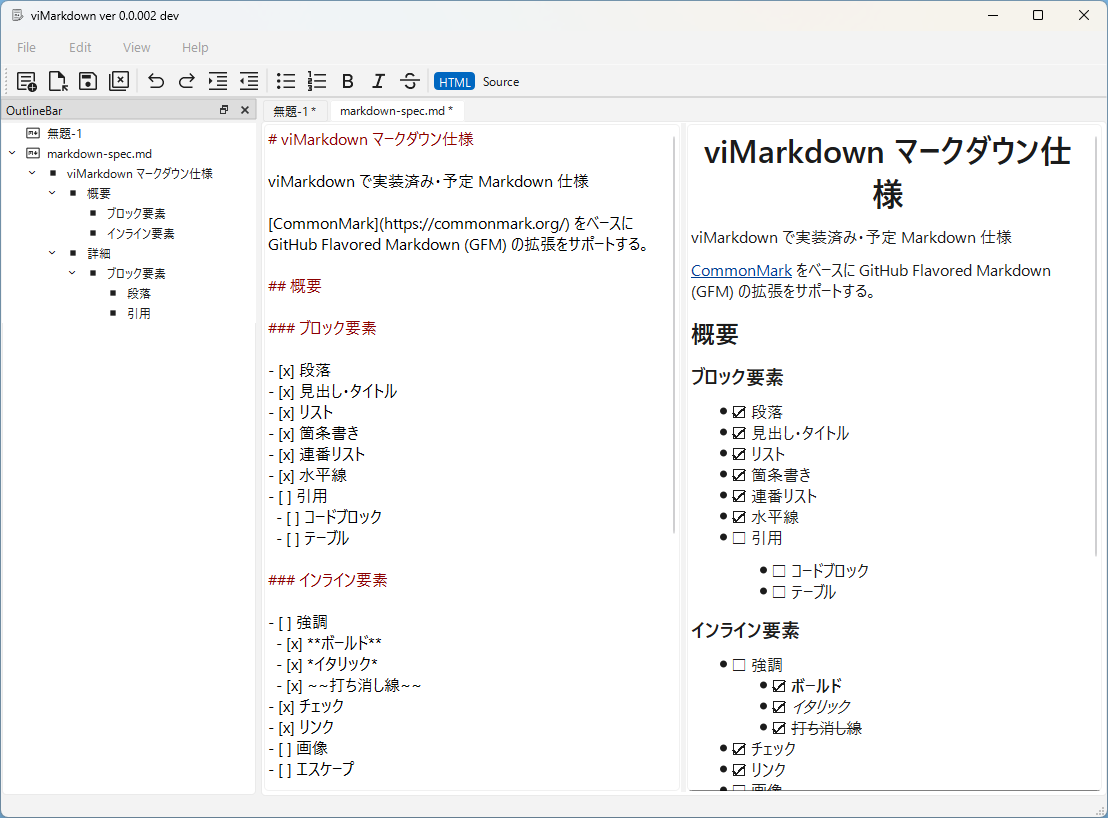
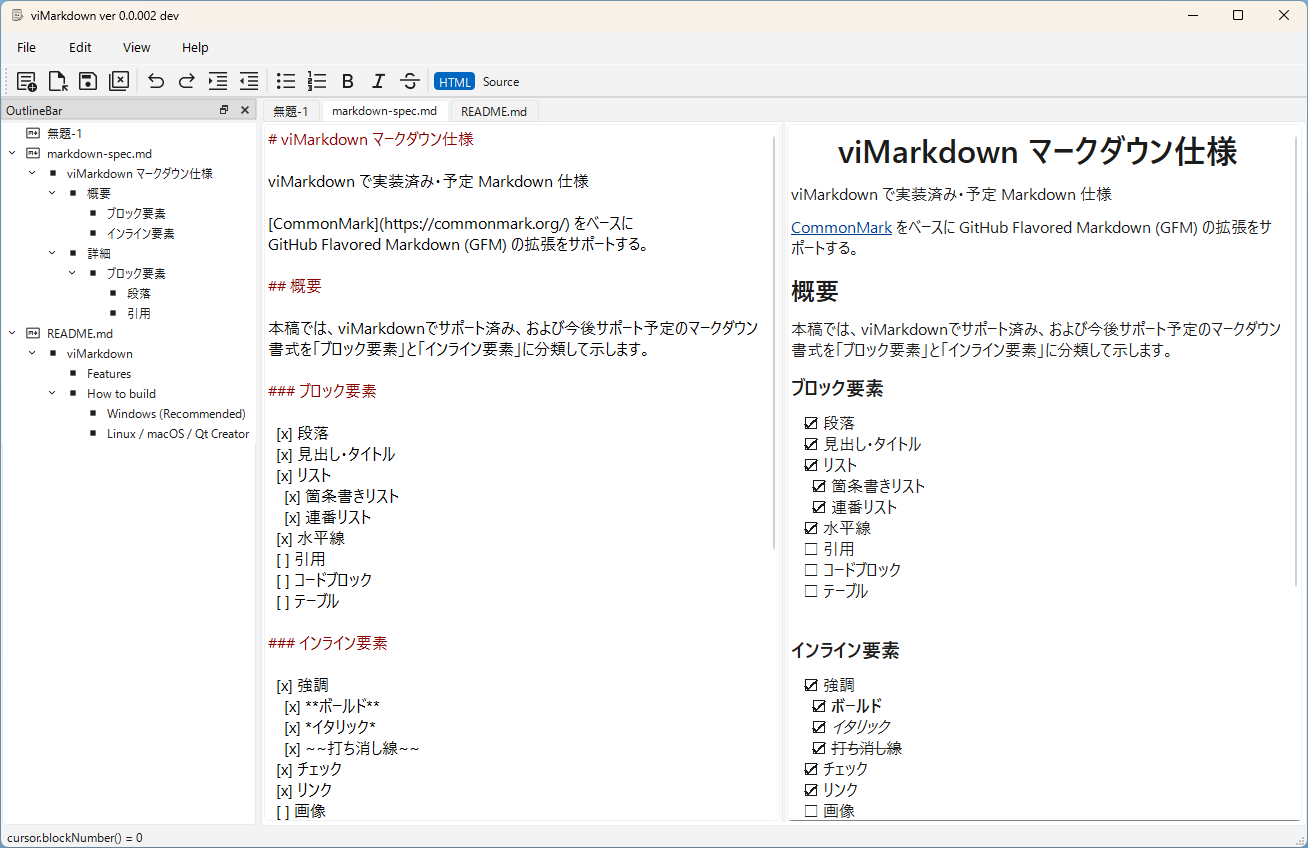
0126 ◎ C 12/20 12/21 0.0002│ToDo│オート改行：チェックボックス（[ ]）対応

diff --git a/viMarkdown/viMarkdown/MarkdownToHtmlConvertor.cpp b/viMarkdown/viMarkdown/MarkdownToHtmlConvertor.cpp
@@ -10,13 +10,16 @@ const QString& MarkdownToHtmlConvertor::convert() {
 	m_htmlText += "<body>\n";
 	m_headingList.clear();
 	m_headingLineNum.clear();
+	m_blockNumTohtmlLineNum.clear();
 	m_isParagraphOpen = true;
 	m_curUlLevel = 0;
 	m_curOlLevel = 0;
 	auto lst = m_markdownText.split('\n');
 	m_blockType.resize(lst.size());
+	int htmlLn = 0;
 	for(int ln = 0; ln != lst.size(); ++ln) {
 		auto lnStr = lst[ln];
+		m_blockNumTohtmlLineNum.push_back(htmlLn);
 		m_nSpace = 0;
 		m_blockType[ln] = ' ';
 	  	while( m_nSpace < lnStr.size() && lnStr[m_nSpace] == ' ' ) ++m_nSpace;
@@ -101,12 +104,24 @@ QString MarkdownToHtmlConvertor::parceInline(const QString& lnStr) {
     static QRegularExpression re_check(R"((?<![\\])(\[ \]))");  // 直前が \ でない [ ] とマッチ
 	while ((match = re_check.match(result)).hasMatch()) {
         int s = match.capturedStart();  // 最初のマッチ位置 
-		result = result.left(s) + " □ " + result.mid(s+3);
+        QString left = result.left(s);
+        QString nbsp;
+        if( left.isEmpty() && m_nSpace != 0 ) {
+	        for(int i = 0; i < m_nSpace; ++i)
+	        	nbsp += "&nbsp;";
+        }
+		result = left + nbsp + " □ " + result.mid(s+3);
 	}
     static QRegularExpression re_checked(R"((?<![\\])(\[[xX]\]))");  // 直前が \ でない [x] [X]とマッチ
 	while ((match = re_checked.match(result)).hasMatch()) {
         int s = match.capturedStart();  // 最初のマッチ位置 
-		result = result.left(s) + " ☑ " + result.mid(s+3);
+        QString left = result.left(s);
+        QString nbsp;
+        if( left.isEmpty() && m_nSpace != 0 ) {
+	        for(int i = 0; i < m_nSpace; ++i)
+	        	nbsp += "&nbsp;";
+        }
+		result = left + nbsp + " ☑ " + result.mid(s+3);
 	}
 	static QRegularExpression re_link(R"((?<!!)\[([^\]]*)\]\(([^)]*)\))");		//	[title](URL)
 	while ((match = re_link.match(result)).hasMatch()) {

diff --git a/viMarkdown/viMarkdown/MainWindow.cpp b/viMarkdown/viMarkdown/MainWindow.cpp
@@ -96,6 +96,7 @@ DocWidget *MainWindow::newTabWidget(const QString& title, const QString& fullPat
 	docWidget->setStyleSheet("font-size: 12pt; line-height: 200%;");
 	QSplitter *splitter = new QSplitter(Qt::Horizontal, docWidget);
 	MarkdownEditor *mdEditor = docWidget->m_mdEditor = new MarkdownEditor(splitter);
+	connect(mdEditor, &MarkdownEditor::cursorPositionChanged, this, &MainWindow::onMdEditCurPosChanged);
 	//QTextEdit *mdEditor = new QTextEdit(splitter);
 	mdEditor->setPlaceholderText("ここにMarkdownを入力\n# タイトル\n## 大見出し\n- リスト\n1. 連番\n本文...");
 	QTextEdit *previewer = docWidget->m_previewer = new QTextEdit(splitter);
@@ -664,6 +665,14 @@ void MainWindow::onMDTextChanged() {
 		ui->tabWidget->setTabText(ui->tabWidget->currentIndex(), docWidget->m_title + " *");
 	}
 	m_ignore_changed = false;
+}
+void MainWindow::onMdEditCurPosChanged() {
+	MarkdownEditor *mdEditor = (MarkdownEditor*)sender();
+	QTextCursor cursor = mdEditor->textCursor();
+	int bnum = cursor.blockNumber();
+	QString mess = QString("cursor.blockNumber() = %1").arg(bnum);
+	//mess += QString(", preview.blockNumber() = %1").arg(cursor.blockNumber());
+	statusBar()->showMessage(mess);
 }
 void MainWindow::onAction_About() {
 	qDebug() << "MainWindow::onAction_About()";

diff --git a/viMarkdown/viMarkdown/MarkdownToHtmlConvertor.h b/viMarkdown/viMarkdown/MarkdownToHtmlConvertor.h
@@ -41,6 +41,7 @@ private:
 	int			m_curUlLevel = 0;
 	int			m_curOlLevel = 0;
 	int			m_nSpace = 0;
+	std::vector<int>	m_blockNumTohtmlLineNum;		//	マークダウン論理行番号→HTML論理行番号対応テーブル
 	std::vector<int>	m_headingLineNum;	//	各見出し行 行番号（0 org.）
 	std::vector<char>	m_blockType;		//	' ': body text, '#': headings
 };

diff --git a/viMarkdown/viMarkdown/MainWindow.h b/viMarkdown/viMarkdown/MainWindow.h
@@ -40,6 +40,7 @@ protected:
     void	onOutlineBarVisibilityChanged(bool visible);
     void	onTreeSelectionChanged(QTreeWidgetItem *current, QTreeWidgetItem *previous);
     void	onTreeItemDoubleClicked(QTreeWidgetItem *current, int);
+    void	onMdEditCurPosChanged();
 
     void	onAction_New();
     void	onAction_Open();

diff --git a/ToDo.md b/ToDo.md
@@ -8,35 +8,37 @@ viMarkdown ver 1.0 までに実装予定機能一覧を示す。
 
 ※　0.1 は 2026/01/End 頃リリース
 
-- [x] 文書クローズ時：編集＆未保存の場合は保存確認
-- [x] アプリ終了時：編集＆未保存タブがある場合は保存確認
-- [ ] リスト要素で改行→リスト記号「- 」生成
-- [ ] 文書が外部で修正された場合の自動読み込み
-- [ ] マークダウン・プレビュー 同期スクロール
-- [ ] 引用対応
-- [ ] コードブロック対応
-- [ ] ![代替テキスト](画像URL)
-- [ ] Edit > Undo, Redo
-- [ ] Edit > Cut, Copy, Paste
-- [ ] 検索コンボボックスをツールバーに設置, 検索、再検索
-- [ ] 文字列置換ダイアログ
-- [ ] 設定ダイアログ
-  - [ ] デフォルトフォントサイズ
-  - [ ] 各種（見出し行etc）色設定
+  [x] 文書クローズ時：編集＆未保存の場合は保存確認  
+  [x] アプリ終了時：編集＆未保存タブがある場合は保存確認  
+  [x] リスト要素で改行→リスト記号「- 」生成  
+  [ ] 文書が外部で修正された場合の自動読み込み  
+  [ ] マークダウン・プレビュー 同期スクロール  
+  [ ] 引用対応  
+  [ ] コードブロック対応  
+  [ ] ![代替テキスト](画像URL)  
+  [ ] Edit > Undo, Redo  
+  [ ] Edit > Cut, Copy, Paste  
+  [ ] 検索コンボボックスをツールバーに設置, 検索、再検索  
+  [ ] 文字列置換ダイアログ？  
+  [ ] 設定ダイアログ？  
+    [ ] デフォルトフォントサイズ  
+    [ ] 各種（見出し行etc）色設定  
 
 ## ver 0.2 までに実装予定
 
-- [ ] table対応
-- [ ] 印刷
+  [ ] table対応  
+  [ ] 印刷  
 
 ## ver 0.3～0.9 までに実装予定
 
-- [ ] vi コマンド対応
-- [ ] マインドマップ風表示
-- [ ] コードブロック > 各種言語（C/C++, Python, JavaScript ...）対応
-- [ ] PDF出力？
+  [ ] vi コマンド対応  
+  [ ] マインドマップ風表示  
+  [ ] コードブロック > 各種言語（C/C++, Python, JavaScript ...）対応  
+  [ ] PDF出力？  
 
 ## ver 1.0 までに実装予定
 
-- [ ] UML 対応
-- [ ] グラフ 対応
+  [ ] UML 対応  
+  [ ] グラフ 対応  
+  [ ] ページビュー？  
+    [ ] 脚注  

diff --git a/markdown-spec.md b/markdown-spec.md
@@ -7,28 +7,30 @@ GitHub Flavored Markdown (GFM) の拡張をサポートする。
 
 ## 概要
 
+本稿では、viMarkdownでサポート済み、および今後サポート予定のマークダウン書式を「ブロック要素」と「インライン要素」に分類して示します。
+
 ### ブロック要素
 
-- [x] 段落
-- [x] 見出し・タイトル
-- [x] リスト
-- [x] 箇条書き
-- [x] 連番リスト
-- [x] 水平線
-- [ ] 引用
-  - [ ] コードブロック
-  - [ ] テーブル
+  [x] 段落  
+  [x] 見出し・タイトル  
+  [x] リスト  
+    [x] 箇条書きリスト  
+    [x] 連番リスト  
+  [x] 水平線  
+  [ ] 引用  
+  [ ] コードブロック  
+  [ ] テーブル  
 
 ### インライン要素
 
-- [ ] 強調
-  - [x] **ボールド**
-  - [x] *イタリック*
-  - [x] ~~打ち消し線~~
-- [x] チェック
-- [x] リンク
-- [ ] 画像
-- [ ] エスケープ
+  [x] 強調  
+    [x] **ボールド**  
+    [x] *イタリック*  
+    [x] ~~打ち消し線~~  
+  [x] チェック  
+  [x] リンク  
+  [ ] 画像  
+  [ ] エスケープ  
 
 ## 詳細
 
